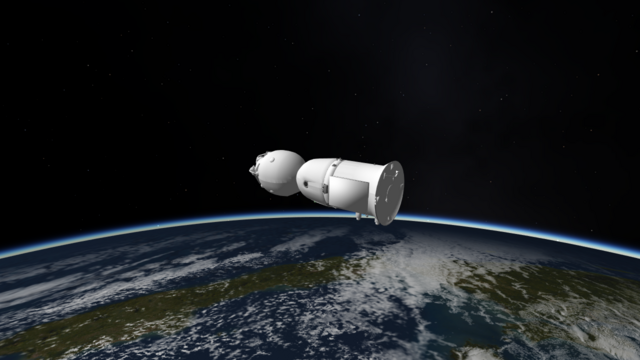
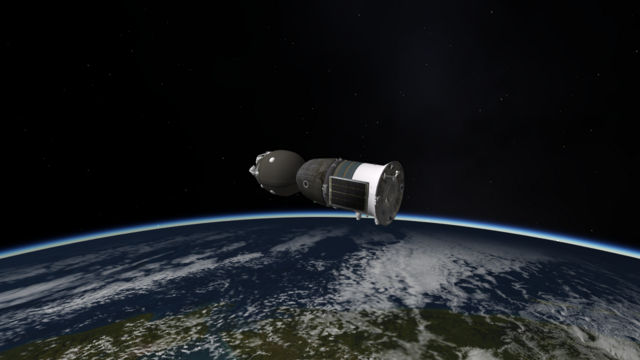
prep for public release

diff --git a/README.md b/README.md
@@ -297,11 +297,14 @@ DDS files are uploaded to the GPU still block-compressed (`sl::load_dds`), with 
 Earth switches from terrain mesh to a textured sphere above 300 km (scaled by body radius for other bodies).
 Orbiter `Surf.tree` archives under `import/orbiter/` can supply terrain colour even when no `Elev.tree` is available; terrain height then uses the existing fallback. Archives can also be converted with `python3 tools/orbiter_import.py <Orbiter folder> --body Earth --level 8`; the tiles are block-copied into one DDS (no decode) and the tree levels become the mip chain.
 
-The standard Orbiter 2024 planetary archives can be packaged separately with
+The Linux and Windows game archives include low-resolution fallback textures, not
+the standard Orbiter planetary datasets. The standard Orbiter 2024 archives are
+split into separate Earth and planets packs to fit GitHub's per-asset size limit.
+After those packs are attached to a GitHub release, the launcher offers them on
+its Scenery packs page. They can be prepared from the Orbiter release ZIP with
 `python3 scripts/pack-orbiter-defaults.py Orbiter-2024.zip OUTPUT_DIR` (requires
 Python, NumPy and Pillow). The Earth pack includes converted standard cloud, night-light and water-specular maps. Publish
-both generated archives and `packs.json` together as GitHub release assets; the
-launcher offers them on its Scenery packs page. The two packs install into
+both generated archives and `packs.json` together as GitHub release assets. The two packs install into
 `data/orbiter-defaults/` and are excluded from the platform archives to stay
 within GitHub's per-asset size limit. Orbiter surface and elevation trees under
 `import/orbiter/` take precedence, separately for each layer. Mask, cloud,

diff --git a/docs/release-notes/0.51.md b/docs/release-notes/0.51.md
@@ -10,3 +10,4 @@
 - Restored the Delta IV and Titan model assets and textures so their launch vehicles render in packaged builds.
 - Fixed the Deltaglider nose-cone surfaces by preserving both texture sides while culling their reverse-wound faces.
 - Regenerated launcher preview thumbnails for all shipped scenarios.
+- Restored the Soyuz TMA's missing surface textures.
